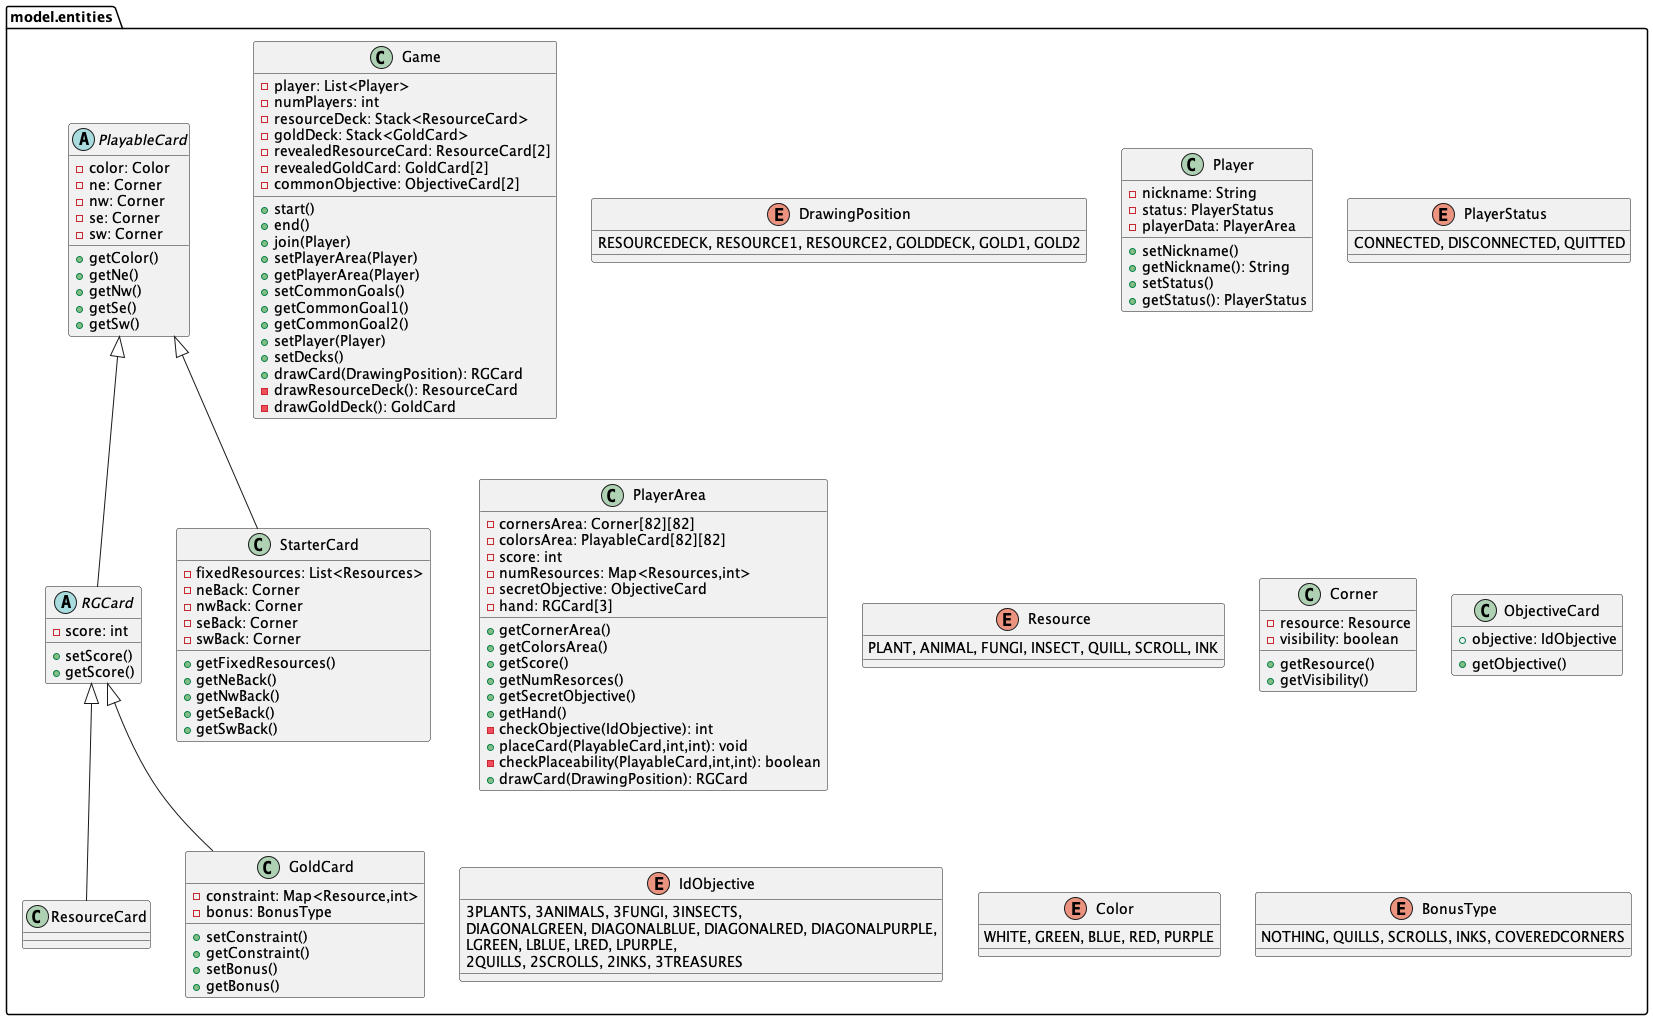
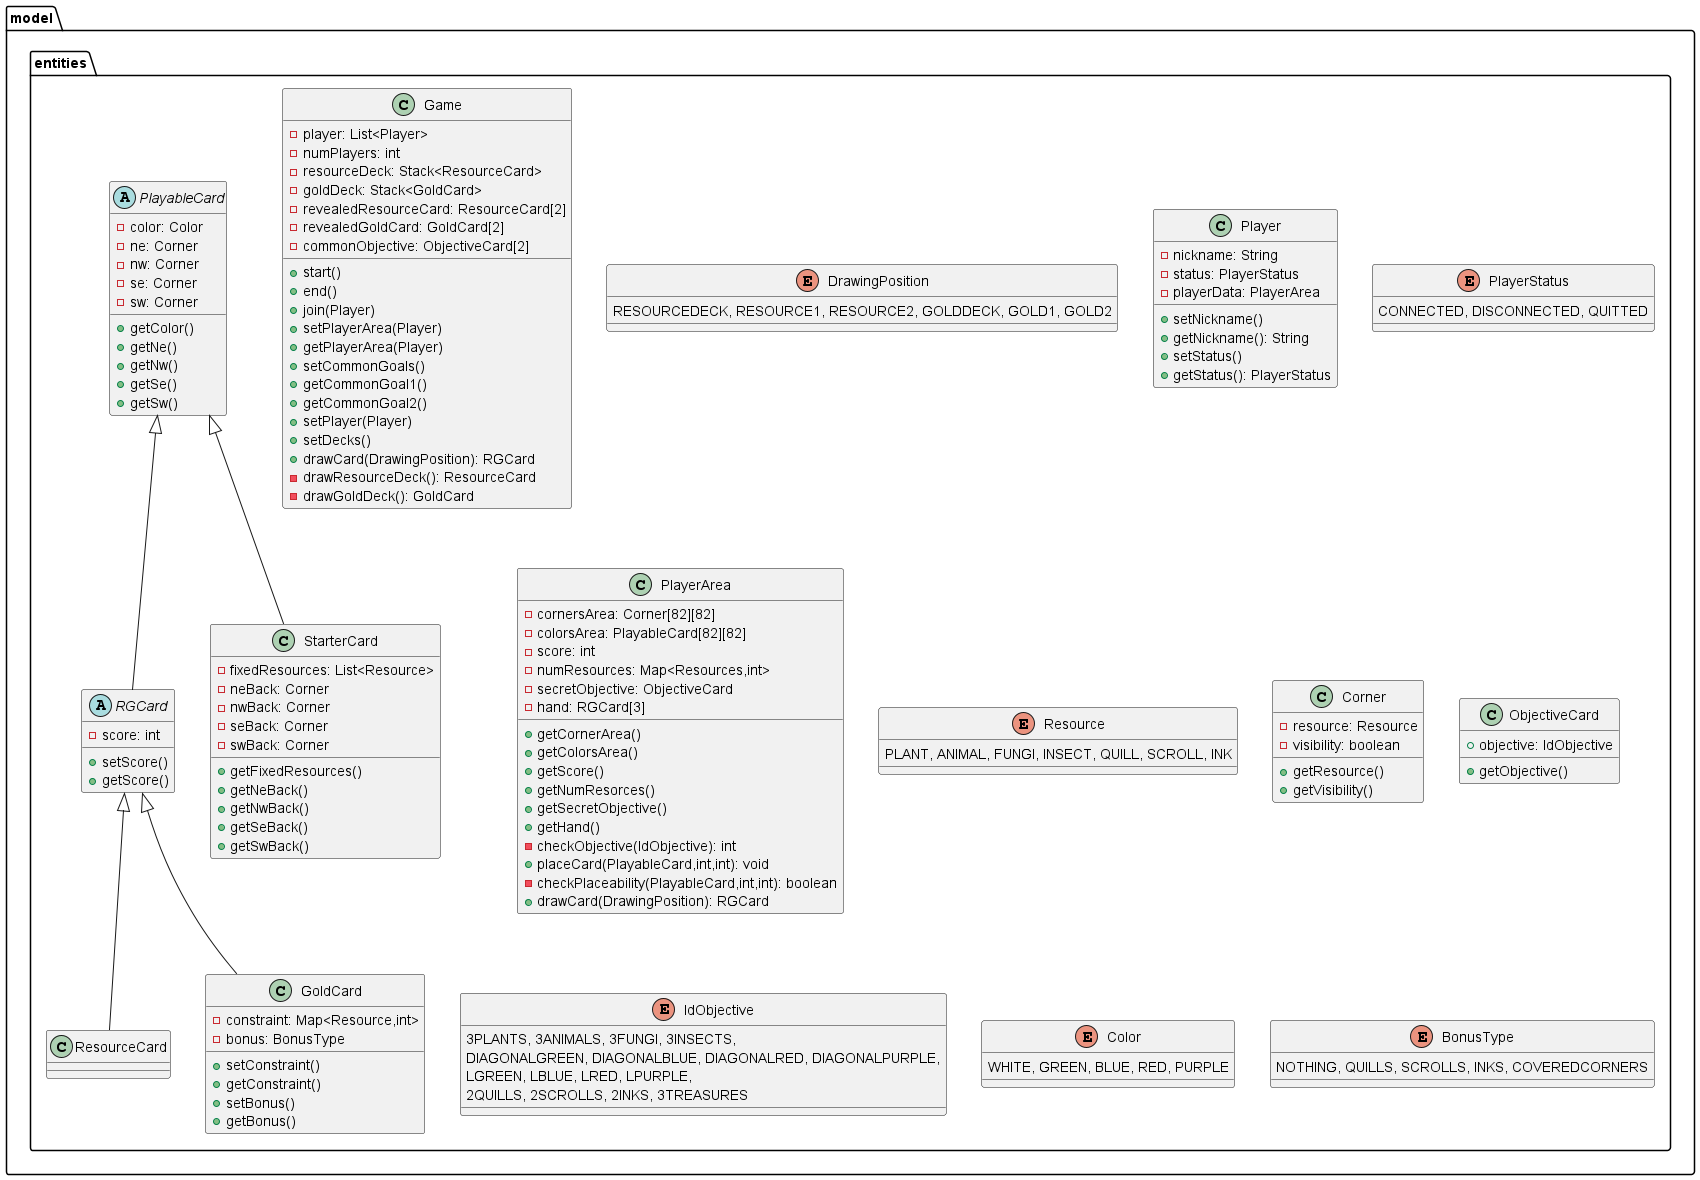
UML v2.1 (correzione piccola) primo scheletro delle classi

diff --git a/src/main/java/it/polimi/sw/gianpaolocugola50/model/PlayableCard.java b/src/main/java/it/polimi/sw/gianpaolocugola50/model/PlayableCard.java
@@ -1,0 +1,29 @@
+package it.polimi.sw.gianpaolocugola50.model;
+
+public abstract class PlayableCard {
+    private Color color;
+    private Corner sw;
+    private Corner nw;
+    private Corner ne;
+    private Corner se;
+
+    public Color getColor() {
+        return color;
+    }
+
+    public Corner getSw() {
+        return sw;
+    }
+
+    public Corner getNw() {
+        return nw;
+    }
+
+    public Corner getNe() {
+        return ne;
+    }
+
+    public Corner getSe() {
+        return se;
+    }
+}

diff --git a/src/main/java/it/polimi/sw/gianpaolocugola50/model/GoldCard.java b/src/main/java/it/polimi/sw/gianpaolocugola50/model/GoldCard.java
@@ -1,0 +1,22 @@
+package it.polimi.sw.gianpaolocugola50.model;
+
+public class GoldCard extends RGCard {
+    private Map<Resource, int> constraint;
+    private BonusType bonus;
+
+    public void setConstraint(Map<Resource, int>) {
+
+    }
+
+    public Map<Resource, int> getConstraint {
+
+    }
+
+    public void setBonus(BonusType bonus) {
+        this.bonus = bonus;
+    }
+
+    public BonusType getBonus() {
+        return bonus;
+    }
+}

diff --git a/src/main/java/it/polimi/sw/gianpaolocugola50/model/Corner.java b/src/main/java/it/polimi/sw/gianpaolocugola50/model/Corner.java
@@ -1,0 +1,14 @@
+package it.polimi.sw.gianpaolocugola50.model;
+
+public class Corner {
+    private boolean visibility;
+    private Resource resource;
+
+    public Resource getResource() {
+        return resource;
+    }
+
+    public boolean isVisible() {
+        return visibility;
+    }
+}

diff --git a/src/main/java/it/polimi/sw/gianpaolocugola50/model/RGCard.java b/src/main/java/it/polimi/sw/gianpaolocugola50/model/RGCard.java
@@ -1,0 +1,13 @@
+package it.polimi.sw.gianpaolocugola50.model;
+
+public abstract class RGCard extends PlayableCard {
+    private int score;
+
+    public void setScore(int score) {
+        this.score = score;
+    }
+
+    public int getScore() {
+        return score;
+    }
+}

diff --git a/src/main/java/it/polimi/sw/gianpaolocugola50/model/StarterCard.java b/src/main/java/it/polimi/sw/gianpaolocugola50/model/StarterCard.java
@@ -1,0 +1,6 @@
+package it.polimi.sw.gianpaolocugola50.model;
+import java.util.List;
+
+public class StarterCard extends PlayableCard {
+    private List<Resource> fixedResources;
+}

diff --git a/src/main/java/it/polimi/sw/gianpaolocugola50/model/Resource.java b/src/main/java/it/polimi/sw/gianpaolocugola50/model/Resource.java
@@ -1,0 +1,5 @@
+package it.polimi.sw.gianpaolocugola50.model;
+
+public enum Resource {
+    PLANT, ANIMAL, FUNGI, INSECT, QUILL, SCROLL, INK
+}

diff --git a/src/main/java/it/polimi/sw/gianpaolocugola50/model/BonusType.java b/src/main/java/it/polimi/sw/gianpaolocugola50/model/BonusType.java
@@ -1,0 +1,5 @@
+package it.polimi.sw.gianpaolocugola50.model;
+
+public enum BonusType {
+    NOTHING, QUILLS, SCROLLS, INKS, COVEREDCORNERS
+}

diff --git a/src/main/java/it/polimi/sw/gianpaolocugola50/model/Color.java b/src/main/java/it/polimi/sw/gianpaolocugola50/model/Color.java
@@ -1,0 +1,5 @@
+package it.polimi.sw.gianpaolocugola50.model;
+
+public enum Color {
+    WHITE, GREEN, BLUE, RED, PURPLE
+}

diff --git a/src/main/java/it/polimi/sw/gianpaolocugola50/model/ResourceCard.java b/src/main/java/it/polimi/sw/gianpaolocugola50/model/ResourceCard.java
@@ -1,0 +1,5 @@
+package it.polimi.sw.gianpaolocugola50.model;
+
+public class ResourceCard extends RGCard{
+
+}
